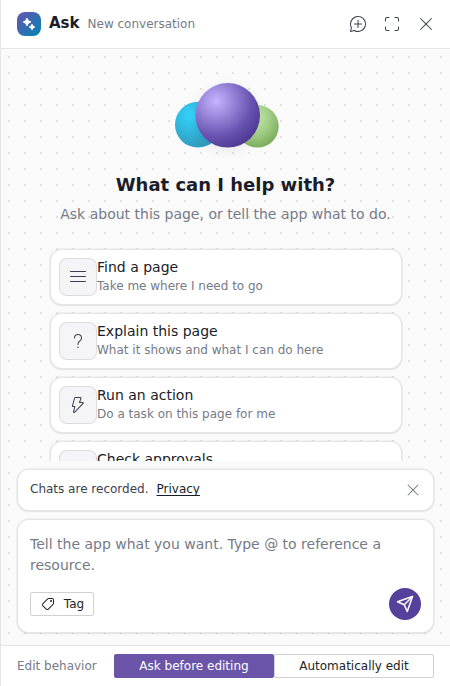
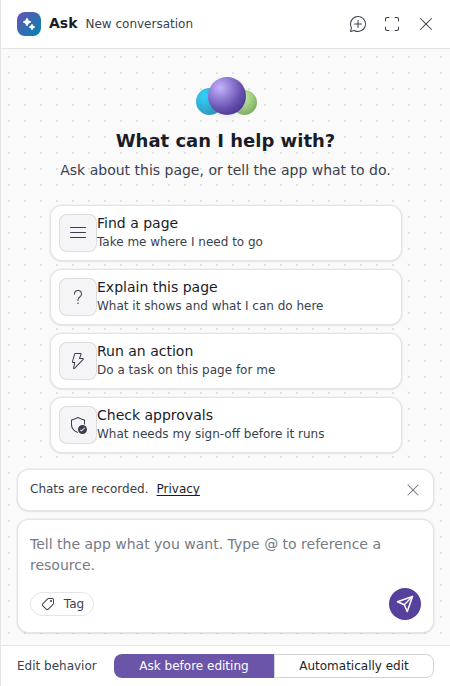
fix(ask): address task 349 review findings; review disposition clean
- Tag pill and edit-behavior segments style the fluent-button host
  (Fluent v5 buttons expose no control part, so ::part(control) was dead)
- WaitForBoxAsync asserts the expected box instead of returning a stale one
- Short viewports shrink the orbs with zoom so all starter cards fit
- Secondary text moves from --twe-muted (below AA) to --twe-ink-2
- AskAnswerBar.LastAnswer returns string? instead of a sentinel compare
- Title uses the type token; expired notice sits in an always-present
  role=status region; starter cards respect reduced motion
- Review artifacts under review/ (2 rounds, disposition clean)

diff --git a/source/container-apps/web/projects/web-spa/features/application/modals/agent-ask/AgentAsk.razor.css b/source/container-apps/web/projects/web-spa/features/application/modals/agent-ask/AgentAsk.razor.css
@@ -80,7 +80,7 @@
 
 .twe-agent-ask__title {
   margin: 0;
-  font-size: 15px;
+  font-size: var(--twe-text-body);
   font-weight: 600;
   line-height: 1.3;
   white-space: nowrap;
@@ -89,7 +89,7 @@
 .twe-agent-ask__conversation {
   margin: 0;
   overflow: hidden;
-  color: var(--twe-muted);
+  color: var(--twe-ink-2);
   font-size: var(--twe-text-helper);
   text-overflow: ellipsis;
   white-space: nowrap;
@@ -117,8 +117,11 @@
   color: var(--twe-ink-2);
 }
 
-.twe-agent-ask__expired {
+.twe-agent-ask__status {
   flex: none;
+}
+
+.twe-agent-ask__expired {
   margin: var(--twe-space-2) var(--twe-ask-inset) 0;
   padding: var(--twe-space-2) var(--twe-space-3);
   border: 1px solid var(--twe-warning);
@@ -267,7 +270,17 @@
 
 .twe-agent-ask__tagline {
   margin: 0 0 calc(var(--twe-space-2) * 2);
-  color: var(--twe-muted);
+  color: var(--twe-ink-2);
+}
+
+/* On short viewports the decorative orbs shrink and give their height to the cards, so the last
+   card clears the notice and composer without scrolling. Zoom, unlike the scale transform, also
+   shrinks the layout box. */
+@media (max-height: 900px) {
+  .twe-agent-ask__hero {
+    transform: none;
+    zoom: 0.5;
+  }
 }
 
 /* ---------- Transcript extras ---------- */
@@ -366,7 +379,7 @@
   align-items: center;
 }
 
-.twe-agent-ask__lead ::deep fluent-button::part(control) {
+.twe-agent-ask__lead ::deep fluent-button {
   border-radius: 999px;
   border-color: var(--twe-rule);
   color: var(--twe-ink-2);
@@ -395,7 +408,7 @@
 
 .twe-agent-ask__edit-label {
   margin: 0;
-  color: var(--twe-muted);
+  color: var(--twe-ink-2);
   font-size: var(--twe-text-helper);
 }
 
@@ -409,21 +422,17 @@
 .twe-agent-ask__segments ::deep > fluent-button {
   flex: 1 1 0;
   min-width: 0;
-}
-
-.twe-agent-ask__segments ::deep > fluent-button::part(control) {
-  width: 100%;
   justify-content: center;
   border-radius: 0;
   font-size: var(--twe-text-helper);
 }
 
-.twe-agent-ask__segments ::deep > fluent-button:first-child::part(control) {
+.twe-agent-ask__segments ::deep > fluent-button:first-child {
   border-start-start-radius: var(--twe-radius-sm);
   border-end-start-radius: var(--twe-radius-sm);
 }
 
-.twe-agent-ask__segments ::deep > fluent-button:last-child::part(control) {
+.twe-agent-ask__segments ::deep > fluent-button:last-child {
   border-start-end-radius: var(--twe-radius-sm);
   border-end-end-radius: var(--twe-radius-sm);
 }

diff --git a/source/container-apps/web/projects/web-spa/features/application/modals/agent-ask/AskStarterPrompts.razor.css b/source/container-apps/web/projects/web-spa/features/application/modals/agent-ask/AskStarterPrompts.razor.css
@@ -7,9 +7,6 @@
   text-align: start;
 }
 
-/* FluentButton's root is the child component, so the card styles anchor on this div. The title
-   and subtitle are light DOM: they inherit alignment and weight from the fluent-button host, not
-   from its shadow control, so the host carries them. */
 /* FluentButton's root is the child component, so the card styles anchor on this div. Fluent v5
    draws the button's border, radius and fill on the fluent-button host, and the title and subtitle
    are light DOM that inherit alignment and weight from it, so the card is styled on the host. */
@@ -44,6 +41,16 @@
   transform: translateY(1px);
 }
 
+@media (prefers-reduced-motion: reduce) {
+  .twe-ask-starters ::deep > fluent-button {
+    transition: none;
+  }
+
+  .twe-ask-starters ::deep > fluent-button:active {
+    transform: none;
+  }
+}
+
 .twe-ask-starters__icon {
   display: inline-flex;
   flex: none;
@@ -75,7 +82,7 @@
 }
 
 .twe-ask-starters__subtitle {
-  color: var(--twe-muted);
+  color: var(--twe-ink-2);
   font-size: var(--twe-text-helper);
   line-height: 1.35;
 }

diff --git a/tests/container-apps/web/web-spa-playwright-tests/ask-panel-design-playwright-tests.cs b/tests/container-apps/web/web-spa-playwright-tests/ask-panel-design-playwright-tests.cs
@@ -150,6 +150,7 @@ public class AskPanelDesign_Given_Wasm
     }
 
     last.ShouldNotBeNull(selector);
+    ready(last).ShouldBeTrue($"{selector} never reached the expected box: x={last.X}, width={last.Width}");
     return last;
   }
 }

diff --git a/kanban/to-do/349-redesign-chatassistant-panel-to-look-polished-cloudflare-level/review/round-1/general.md b/kanban/to-do/349-redesign-chatassistant-panel-to-look-polished-cloudflare-level/review/round-1/general.md
@@ -1,0 +1,56 @@
+# Round 1 — general
+**Date:** 2026-10-13
+**Scope reviewed:** commit 4228d4886
+
+## Summary
+The redesign is sound overall. Every color is a `--twe-*` token that exists in `tokens.css`. `::deep` is anchored on native roots, and no component has a `<style>` element. The AskAnswerBar subscription is correct. The `@key="Conversation"` on the chat-page div recreates the bar for each new conversation, `Dispose` releases the subscription, and the bar's only parameter is a string, so the status re-render is needed. I found two real defects. First, the new `::part(control)` styling targets a shadow part that Fluent v5 `fluent-button` does not have, so the Tag pill and segment styling are no-ops (the after screenshots confirm the Tag button is not a pill). Second, the new Playwright helper `WaitForBoxAsync` never fails when its condition is unmet, so the viewport-resize steps prove nothing. The remaining items are suggestions and nits.
+
+## Issues
+
+### Issue 1 — Severity: bug
+- File: source/container-apps/web/projects/web-spa/features/application/modals/agent-ask/AgentAsk.razor.css:369
+- Description: `.twe-agent-ask__lead ::deep fluent-button::part(control)` (pill radius `999px`, border color, ink-2 color) and the segment rules at lines 414-430 (`width`, `justify-content`, `border-radius: 0`, `font-size`, first/last-child radii) all target `::part(control)`. In Microsoft.FluentUI.AspNetCore.Components 5.0.0 the bundled web components expose `part="control"` only on the textarea and input templates, not on `fluent-button`. The button's shadow parts are `content` plus the start/end slots. The commit's own comment in `AskStarterPrompts.razor.css` says the same thing: "Fluent v5 draws the button's border, radius and fill on the fluent-button host". In `assets/after-ask-empty-state-1280.png` and `-800.png` the Tag button is a small rounded rectangle, not the pill the task Results describe ("Tag as a small outline pill"). The segment radius and font-size rules were partly carried over from before, and they are also dead.
+- Suggestion: Style the host instead, as the starter cards now do. For example, `.twe-agent-ask__lead ::deep fluent-button { border-radius: 999px; border-color: …; color: … }`, and the same for `.twe-agent-ask__segments ::deep > fluent-button` and its `:first-child` / `:last-child` radii. Or use the Fluent CSS custom properties. Then remove the `::part(control)` selectors.
+- Status: open
+
+### Issue 2 — Severity: bug
+- File: tests/container-apps/web/web-spa-playwright-tests/ask-panel-design-playwright-tests.cs:135
+- Description: `WaitForBoxAsync` polls 50 times. If the `ready` predicate never holds, it falls through to `last.ShouldNotBeNull(selector)` and returns the stale box. A layout that never reaches the expected geometry passes silently. Two calls depend on it. At line 93 (full-viewport at 800 wide), a regression in the 800px layout would still take the "800" screenshot of the wrong layout. At line 100 (docked 450 wide at 1280), the layout assertions that follow may run against the wrong layout. Neither wait proves its claim.
+- Suggestion: After the loop, assert the predicate. For example, `ready(last).ShouldBeTrue($"{selector} never reached the expected box: {last.X},{last.Width}")`. Alternatively, have the helper return a bool and assert it at the call site.
+- Status: open
+
+### Issue 3 — Severity: suggestion
+- File: source/container-apps/web/projects/web-spa/features/application/modals/agent-ask/AgentAsk.razor.css:441
+- Description: The empty state does not fit at either captured size. In `after-ask-empty-state-1280.png` (docked panel at 800 high) and `after-ask-empty-state-800.png` (800x700), the fourth starter card ("Check approvals") is cut off behind the notice and composer. Its subtitle cannot be seen until the user scrolls, and nothing in the UI suggests more cards below. The hero (80px plus margin), the greeting, the tagline and the 52px-minimum cards take up the height. The test checks that every card has an icon, a title and a subtitle, but not that the cards are within the scroll viewport, so this goes unflagged.
+- Suggestion: Make the empty state shorter on short viewports, for example with `@media (max-height: …)`: shrink or hide the hero, tighten the card `min-height` and the gaps. Or accept scrolling, but add a scroll affordance such as a fade at the bottom. Optionally, assert in the test that the last card's bottom is at or above the top of the notice at 1280x800.
+- Status: open
+
+### Issue 4 — Severity: suggestion
+- File: source/container-apps/web/projects/web-spa/features/application/modals/agent-ask/AskStarterPrompts.razor.css:77
+- Description: The redesign moves more small text onto `--twe-muted` (`#767a86`): the card subtitle (previously `--twe-ink-2`), the new tagline (AgentAsk.razor.css:268), the conversation name (line 89), the edit-behavior label, and the answer-bar icons. `#767a86` on `#ffffff` is about 4.3:1. On the `--twe-background` (`#fafafb`) dotted canvas behind the tagline it is lower. Both are below WCAG AA's 4.5:1 for normal text, and most of this text is 12px (`--twe-text-helper`).
+- Suggestion: Use `--twe-ink-2` (`#3b3f4d`) for secondary text that has to be read: the card subtitles and the tagline. Or darken `--twe-muted` in `tokens.css` so it passes 4.5:1.
+- Status: open
+
+### Issue 5 — Severity: nit
+- File: source/container-apps/web/projects/web-spa/features/application/modals/agent-ask/AskStarterPrompts.razor.css:10
+- Description: There are two consecutive comment blocks above `.twe-ask-starters ::deep > fluent-button`. The first one ("…not from its shadow control, so the host carries them") is an earlier draft that the second one supersedes.
+- Suggestion: Delete the first comment block.
+- Status: open
+
+### Issue 6 — Severity: nit
+- File: source/container-apps/web/projects/web-spa/features/application/modals/agent-ask/AskAnswerBar.razor:34
+- Description: `HasAnswer` compares `LastAnswer()` against the fallback string `"Ask AI answer"`. If a real answer's raw text is exactly that string, the bar hides. Each render also walks the turns twice: once for `HasAnswer`, and again when Copy or the thumbs run.
+- Suggestion: Split it into a `string? LastAnswerText()` that returns null when there is no answer. Render on `is not null`, and fall back to the label only in the feedback and copy paths.
+- Status: open
+
+### Issue 7 — Severity: nit
+- File: source/container-apps/web/projects/web-spa/features/application/modals/agent-ask/AgentAsk.razor.css:83
+- Description: `.twe-agent-ask__title` uses a literal `font-size: 15px` that falls between the `--twe-text-body` (14px) and `--twe-text-section-title` (18px) tokens. Other literals in the same commit (the 24px mark, `999px` radius, 16px dot grid, orb sizes) are decorative geometry and acceptable. The type size, however, falls outside the type scale.
+- Suggestion: Use `--twe-text-body` with weight 600, or add a token if 15px is the intended size.
+- Status: open
+
+### Issue 8 — Severity: nit
+- File: source/container-apps/web/projects/web-spa/features/application/modals/agent-ask/AgentAsk.razor:471
+- Description: `role="status"` sits on a `<p>` that is rendered conditionally, so the live region and its text are inserted together. Screen readers often skip live regions that are inserted with their content already in them, so the added role may not cause an announcement.
+- Suggestion: Keep an always-present empty `role="status"` container and render the expiry text inside it. Or drop the role if no announcement is intended.
+- Status: open

diff --git a/kanban/to-do/349-redesign-chatassistant-panel-to-look-polished-cloudflare-level/review/round-1/merged.md b/kanban/to-do/349-redesign-chatassistant-panel-to-look-polished-cloudflare-level/review/round-1/merged.md
@@ -1,0 +1,69 @@
+# Round 1 — merged findings
+**Date:** 2026-10-13
+**Sources:** general
+
+## Counts
+
+| Severity | open | fixed | wontfix |
+|----------|------|-------|---------|
+| bug | 0 | 2 | 0 |
+| suggestion | 0 | 2 | 0 |
+| nit | 0 | 4 | 0 |
+
+## Issues
+
+### M1 — Severity: bug — Status: fixed
+- File: source/container-apps/web/projects/web-spa/features/application/modals/agent-ask/AgentAsk.razor.css:369, 414-430
+- Description: The Tag pill and edit-behavior segment rules used `fluent-button::part(control)`. Fluent v5 `fluent-button` exposes no `control` part (verified: in the 5.0.0 lib.module.js, `part="control"` is only on the input and textarea templates), so these rules did nothing.
+- Suggestion: Style the fluent-button host.
+- Source: general
+- Disposition notes: The rules now target the host. The Tag button renders as a pill and the segments get their radius and font size (screenshots re-taken).
+
+### M2 — Severity: bug — Status: fixed
+- File: tests/container-apps/web/web-spa-playwright-tests/ask-panel-design-playwright-tests.cs:135
+- Description: `WaitForBoxAsync` returned a stale box when the predicate never held, so the resize checks could pass on the wrong layout.
+- Suggestion: Assert the predicate after the loop.
+- Source: general
+- Disposition notes: The helper now asserts `ready(last)` with the last x and width.
+
+### M3 — Severity: suggestion — Status: fixed
+- File: source/container-apps/web/projects/web-spa/features/application/modals/agent-ask/AgentAsk.razor.css:221
+- Description: At 1280x800 (docked) and 800x700 the 4th starter card was clipped behind the notice and composer.
+- Suggestion: Make the empty state shorter on short viewports.
+- Source: general
+- Disposition notes: `@media (max-height: 900px)` replaces the hero's scale transform with `zoom: 0.5`, which also shrinks the layout box. All four cards are now visible at both captured sizes (assets re-taken).
+
+### M4 — Severity: suggestion — Status: fixed
+- File: source/container-apps/web/projects/web-spa/features/application/modals/agent-ask/AskStarterPrompts.razor.css:77
+- Description: Small secondary text on `--twe-muted` (#767a86) is about 4.28:1 on white, below WCAG AA's 4.5:1.
+- Suggestion: Use `--twe-ink-2` for text that has to be read.
+- Source: general
+- Disposition notes: The card subtitle, tagline, conversation name and edit-behavior label now use `--twe-ink-2`. The `--twe-muted` token itself is unchanged (template-wide; out of scope).
+
+### M5 — Severity: nit — Status: fixed
+- File: source/container-apps/web/projects/web-spa/features/application/modals/agent-ask/AskStarterPrompts.razor.css:10
+- Description: A superseded duplicate comment block.
+- Source: general
+- Disposition notes: Removed. Also added a `prefers-reduced-motion` guard for the card transition and press transform.
+
+### M6 — Severity: nit — Status: fixed
+- File: source/container-apps/web/projects/web-spa/features/application/modals/agent-ask/AskAnswerBar.razor:34
+- Description: `HasAnswer` compared the answer text with the fallback label, so an answer whose text was exactly that label would hide the bar.
+- Source: general
+- Disposition notes: `LastAnswer()` returns `string?`. The bar renders on `is not null`; Copy and feedback fall back to the label.
+
+### M7 — Severity: nit — Status: fixed
+- File: source/container-apps/web/projects/web-spa/features/application/modals/agent-ask/AgentAsk.razor.css:83
+- Description: A literal `15px` title size, off the type scale.
+- Source: general
+- Disposition notes: Now `var(--twe-text-body)` at weight 600.
+
+### M8 — Severity: nit — Status: fixed
+- File: source/container-apps/web/projects/web-spa/features/application/modals/agent-ask/AgentAsk.razor:471
+- Description: `role="status"` was inserted together with its text, so it may not be announced.
+- Source: general
+- Disposition notes: An always-present `div.twe-agent-ask__status[role=status]` (flex: none) wraps the conditional expired text.
+
+## Duplicates / conflicts
+
+- None.

diff --git a/kanban/to-do/349-redesign-chatassistant-panel-to-look-polished-cloudflare-level/task.md b/kanban/to-do/349-redesign-chatassistant-panel-to-look-polished-cloudflare-level/task.md
@@ -40,6 +40,8 @@ Responsive, light/dark consistent with the template theme.
 
 - Created: 1442907 (2026-10-13)
 - 2026-10-13: implemented by ganda task work (Opus 5.5, headless implementer).
+- Implement oracle: implemented by implementer-claude (claude, model claude-opus-5-5), session not reported, max-turns 500, Done — 2026-10-13T16:18:15Z
+- Review oracle: claude-opus-5-5 (headless), effort 3, roster general (subagent a5decffb365815db4); 2 rounds; disposition clean — 2026-10-13
 
 ## Results
 
@@ -82,6 +84,24 @@ Responsive, light/dark consistent with the template theme.
 - `web-spa-playwright-tests` (all): 12/12 passed, including the new `AskPanelDesign_Given_Wasm`.
 - `web-spa-integration-tests --filter-class Ask`: 38/38. `--filter-class CatalogAgent`: 40/40 after the boyscout fix (39/40 before).
 - `ganda repo audit`: passes all checks.
+
+### Review disposition
+
+- Rounds: 2. Roster: general, effort 3 (by-diff budget, 867 lines).
+- Final counts: bug 2 fixed, suggestion 2 fixed, nit 4 fixed. 0 open, 0 wontfix.
+- Disposition: **clean**.
+- Fixes on this task:
+  - The Tag pill and edit-behavior segment styles now target the fluent-button host. Fluent v5 buttons have no `control` part.
+  - `WaitForBoxAsync` now asserts that the box reached the expected size.
+  - On short viewports the orbs shrink to half size (`zoom`), so all four cards fit at 1280x800 docked and at 800x700.
+  - Small secondary text moved from `--twe-muted` (below AA) to `--twe-ink-2`.
+  - The duplicate comment is removed, and the cards respect reduced motion.
+  - `AskAnswerBar.LastAnswer()` returns `string?` instead of comparing against the fallback label.
+  - The title uses the type token.
+  - The expired notice sits in an always-present `role=status` live region.
+- Re-run gates: `dev build` 0/0; Playwright 12/12; integration `Ask` 38/38, `CatalogAgent` 40/40.
+- Artifacts: `review/review-framework.md`, `review/round-1/{general,merged}.md`, `review/round-2/{general,merged}.md`, `review/disposition.md`.
+- The `after-ask-empty-state-{1280,800}.png` assets were re-taken after the fixes.
 
 ### How to validate
 

diff --git a/kanban/to-do/349-redesign-chatassistant-panel-to-look-polished-cloudflare-level/review/review-framework.md b/kanban/to-do/349-redesign-chatassistant-panel-to-look-polished-cloudflare-level/review/review-framework.md
@@ -1,0 +1,27 @@
+# Review framework
+
+## Budget (by-diff)
+
+- Lines changed: 867
+- Effort: 3
+- TCB hits: none
+- Roster axes: general
+- Turn cap: 200 (--max-turns; cursor uncapped)
+
+# Review framework — task 349
+
+**Date:** 2026-10-13
+**Host task:** kanban/to-do/349-redesign-chatassistant-panel-to-look-polished-cloudflare-level/
+**Diff scope:** commit 4228d4886 (the task branch's only commit beyond the 348 merge)
+**Plan / brief:** task.md Requirements and Results (Ask panel visual redesign)
+**Effort:** 3 (by-diff budget); roster axes: general
+**Reviewer roster:** general (Claude subagent, read-only); orchestrator re-review in round 2
+**Session IDs:** review oracle claude-opus-5-5 (headless, id not reported); general reviewer subagent a5decffb365815db4
+
+## Ground rules
+
+- Reviewers are read-only on product code; they write only under `review/round-N/`
+- Severity: bug | suggestion | nit — Status starts as open
+- Do not invent issues to fill space; zero issues is a valid outcome
+- Address the diff and surrounding call sites; re-verify falsifiable claims against the repo
+- Prior rounds are immutable; new work goes in `round-(N+1)/`

diff --git a/kanban/to-do/349-redesign-chatassistant-panel-to-look-polished-cloudflare-level/review/round-2/general.md b/kanban/to-do/349-redesign-chatassistant-panel-to-look-polished-cloudflare-level/review/round-2/general.md
@@ -1,0 +1,13 @@
+# Round 2 — general (orchestrator re-review)
+**Date:** 2026-10-13
+**Scope reviewed:** round-1 fix delta (uncommitted on top of 4228d4886) — AgentAsk.razor(.css), AskAnswerBar.razor, AskStarterPrompts.razor.css, ask-panel-design-playwright-tests.cs, assets
+
+## Summary
+
+Re-verified M1–M8 against the post-fix code and fresh screenshots. No `::part(control)` remains; the Tag pill and the segmented control render as intended. All four starter cards are visible at 1280x800 docked and at 800x700, with the orbs kept at half size. The wait helper now fails when the layout never settles. The live region is always present. No new defects found in the fix delta.
+
+Gates: `./bin/dev build` 0 warnings / 0 errors; `web-spa-playwright-tests` 12/12; `web-spa-integration-tests --filter-class Ask` 38/38; `--filter-class CatalogAgent` 40/40.
+
+## Issues
+
+<!-- none -->

diff --git a/kanban/to-do/349-redesign-chatassistant-panel-to-look-polished-cloudflare-level/review/disposition.md b/kanban/to-do/349-redesign-chatassistant-panel-to-look-polished-cloudflare-level/review/disposition.md
@@ -1,0 +1,18 @@
+# Disposition — task 349
+
+**Date:** 2026-10-13
+**Outcome:** clean
+**Rounds:** 2
+**Final open count:** 0
+
+## Summary
+
+Round 1 (general, effort 3) raised 2 bugs, 2 suggestions and 4 nits. Bugs: dead `::part(control)` styling on Fluent v5 buttons, and a Playwright wait that never failed. Suggestions: the empty state did not fit short viewports, and small muted text was below AA contrast. All 8 were fixed on this task and re-verified in round 2 with fresh screenshots and green gates. No wontfix.
+
+## Exception log
+
+None.
+
+## Escalations
+
+None.

diff --git a/kanban/to-do/349-redesign-chatassistant-panel-to-look-polished-cloudflare-level/review/round-2/merged.md b/kanban/to-do/349-redesign-chatassistant-panel-to-look-polished-cloudflare-level/review/round-2/merged.md
@@ -1,0 +1,23 @@
+# Round 2 — merged findings
+**Date:** 2026-10-13
+**Sources:** general (orchestrator re-review)
+
+## Counts
+
+| Severity | open | fixed | wontfix |
+|----------|------|-------|---------|
+| bug | 0 | 2 | 0 |
+| suggestion | 0 | 2 | 0 |
+| nit | 0 | 4 | 0 |
+
+## Resolved prior
+
+M1–M8: fixed, re-verified (see round-1/merged.md disposition notes).
+
+## Issues
+
+None new.
+
+## Duplicates / conflicts
+
+- None.
